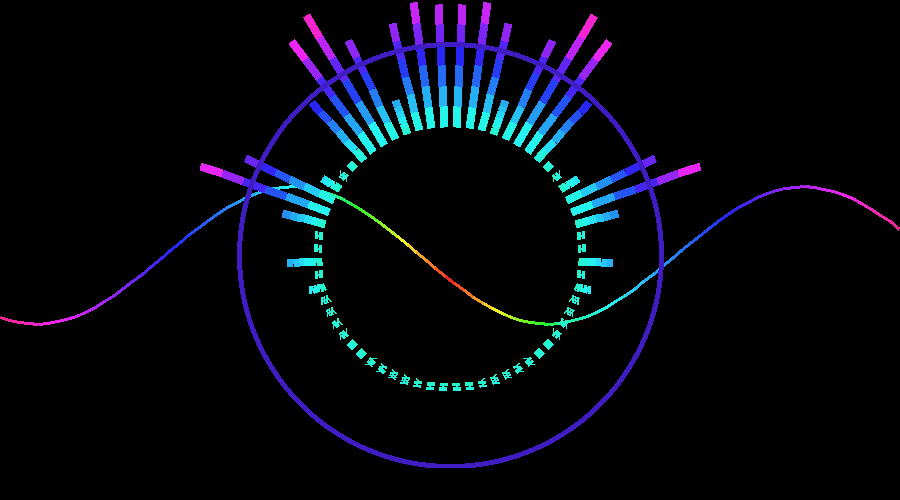
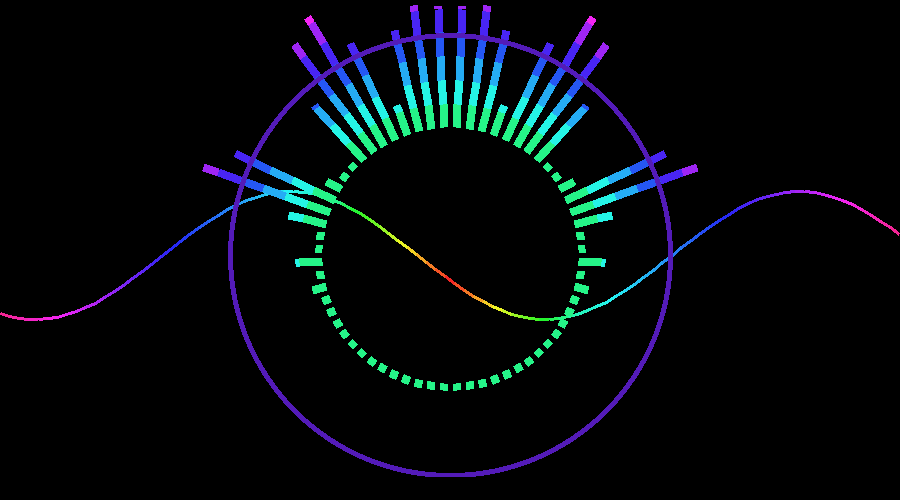
v0.4.1: fix frame starvation on slow ticks (minimum frame gap), cache rainbow shell colours, cancel stuck CI runs

diff --git a/audiovis/visuals.py b/audiovis/visuals.py
@@ -19,23 +19,8 @@ def ring(cx, cy, radius, width, rgb, alpha):
     return Prim("ring", cx, cy, radius, 0.0, width, rgb, alpha)
 
 
-def segmented(x0, y0, x1, y1, d0, d1, segments, width, colour_at):
-    prims = []
-    for j in range(segments):
-        t0 = j / segments
-        t1 = (j + 1) / segments
-        rgb = colour_at(d0 + (d1 - d0) * (t0 + t1) / 2.0)
-        prims.append(
-            line(
-                x0 + (x1 - x0) * t0,
-                y0 + (y1 - y0) * t0,
-                x0 + (x1 - x0) * t1,
-                y0 + (y1 - y0) * t1,
-                width,
-                rgb,
-            )
-        )
-    return prims
+SHELLS = 6
+BAR_SHELLS = 8
 
 
 def height_gain(look):
@@ -77,22 +62,25 @@ class RadialVisual:
         rainbow = look.mode == colors.MODE_RAINBOW
         cross = m * 0.24
         far = m * 0.56
-
-        def radial_colour(d):
-            return colors.wave_rgb(d, cross, far)
-
+        shell = max_len / SHELLS
+        shell_rgb = [colors.wave_rgb(m * 0.2 + (k + 0.5) * shell, cross, far) for k in range(SHELLS + 1)]
         for i in range(BANDS):
             length = min(1.0, an.vals[i] * gain) * max_len + min_len
             ang = (i + 0.5) / BANDS * math.pi - math.pi / 2.0
             cos_a = math.cos(ang)
             sin_a = math.sin(ang)
-            y0 = cy + sin_a * r0
-            y1 = cy + sin_a * (r0 + length)
             if rainbow:
-                segs = max(1, min(6, int(length / 2.0))) if pixel else 6
-                prims.extend(segmented(cx - cos_a * r0, y0, cx - cos_a * (r0 + length), y1, r0, r0 + length, segs, bar_w, radial_colour))
-                prims.extend(segmented(cx + cos_a * r0, y0, cx + cos_a * (r0 + length), y1, r0, r0 + length, segs, bar_w, radial_colour))
+                count = min(SHELLS + 1, max(1, int(math.ceil(length / shell))))
+                for k in range(count):
+                    s0 = k * shell
+                    s1 = min((k + 1) * shell, length)
+                    ya = cy + sin_a * (r0 + s0)
+                    yb = cy + sin_a * (r0 + s1)
+                    prims.append(line(cx - cos_a * (r0 + s0), ya, cx - cos_a * (r0 + s1), yb, bar_w, shell_rgb[k]))
+                    prims.append(line(cx + cos_a * (r0 + s0), ya, cx + cos_a * (r0 + s1), yb, bar_w, shell_rgb[k]))
             else:
+                y0 = cy + sin_a * r0
+                y1 = cy + sin_a * (r0 + length)
                 rgb = colors.bar_rgb(look.mode, i, BANDS, an.vals[i], look.sensitivity, look.fixed)
                 prims.append(line(cx - cos_a * r0, y0, cx - cos_a * (r0 + length), y1, bar_w, rgb))
                 prims.append(line(cx + cos_a * r0, y0, cx + cos_a * (r0 + length), y1, bar_w, rgb))
@@ -119,6 +107,8 @@ class BarsVisual:
     def frame(self, width, height, dt, an, look, pixel):
         gain = height_gain(look)
         mid = height / 2.0
+        shell = max(1.0, (mid - 1.0) / BAR_SHELLS)
+        shell_rgb = [colors.wave_rgb((k + 0.5) * shell, mid * 0.5, mid) for k in range(BAR_SHELLS)]
         bw = width / BANDS
         fall = height * 0.72 * dt
         if pixel:
@@ -139,11 +129,11 @@ class BarsVisual:
             x0 = i * bw + offset
             x1 = x0 + bar_w
             if look.mode == colors.MODE_RAINBOW:
-                segs = max(1, min(8, int(h / 3.0))) if pixel else 8
-                for j in range(segs):
-                    d0 = h * j / segs
-                    d1 = h * (j + 1) / segs
-                    rgb = colors.wave_rgb((d0 + d1) / 2.0, mid * 0.5, mid)
+                count = max(1, int(math.ceil(h / shell))) if h > 0 else 1
+                for k in range(min(count, BAR_SHELLS)):
+                    d0 = k * shell
+                    d1 = min((k + 1) * shell, h)
+                    rgb = shell_rgb[k]
                     bars.append(rect(x0, mid - d1, x1, mid - d0, rgb))
                     bars.append(rect(x0, mid + d0 + 1.0, x1, mid + d1 + 1.0, rgb))
             else:

diff --git a/audiovis/app.py b/audiovis/app.py
@@ -30,6 +30,7 @@ MODE_LABELS = {
     colors.MODE_RAINBOW: "Rainbow (red centre to pink)",
 }
 TRIGGER_LABELS = {"kick": "Kick", "bass": "Bass"}
+MIN_FRAME_GAP_MS = 8
 SELFTEST_FRAMES = 110
 
 
@@ -372,7 +373,7 @@ class App:
                 self.close()
                 return
         elapsed_ms = (time.perf_counter() - started) * 1000.0
-        self.after_id = self.root.after(max(1, int(16 - elapsed_ms)), self.tick)
+        self.after_id = self.root.after(max(MIN_FRAME_GAP_MS, int(16 - elapsed_ms)), self.tick)
 
     def close(self):
         if self.after_id is not None:

diff --git a/tests/test_app.py b/tests/test_app.py
@@ -126,3 +126,9 @@ def test_visual_cycle_and_controls_toggle():
     assert cfg.controls is True
     pump(root, 0.2)
     app.close()
+
+
+def test_frames_are_never_scheduled_back_to_back():
+    from audiovis import app
+
+    assert app.MIN_FRAME_GAP_MS >= 4

diff --git a/audiovis/__init__.py b/audiovis/__init__.py
@@ -1,1 +1,1 @@
-__version__ = "0.4.0"
+__version__ = "0.4.1"

diff --git a/README.md b/README.md
@@ -88,11 +88,11 @@ The exe appears in `dist\`.
 
 ## Releases
 
-Pushing to `main` runs the tests, builds the exe and smoke-tests it (`AudioVisualiser.exe --selftest`, which cycles through every screen preset). Pushing a tag such as `v0.4.0` also publishes the exe as a GitHub release:
+Pushing to `main` runs the tests, builds the exe and smoke-tests it (`AudioVisualiser.exe --selftest`, which cycles through every screen preset). Pushing a tag such as `v0.4.1` also publishes the exe as a GitHub release:
 
 ```
-git tag v0.4.0
-git push origin v0.4.0
+git tag v0.4.1
+git push origin v0.4.1
 ```
 
 ## Tests
